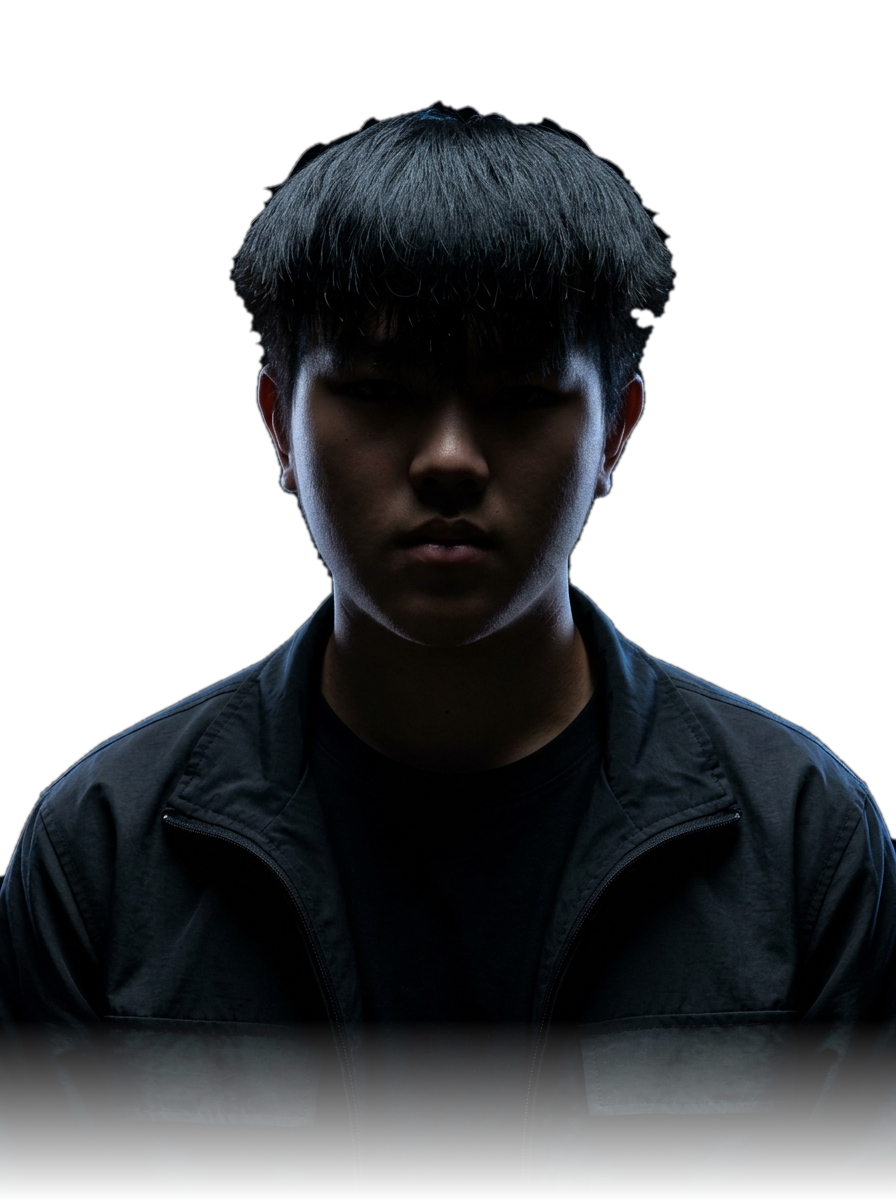
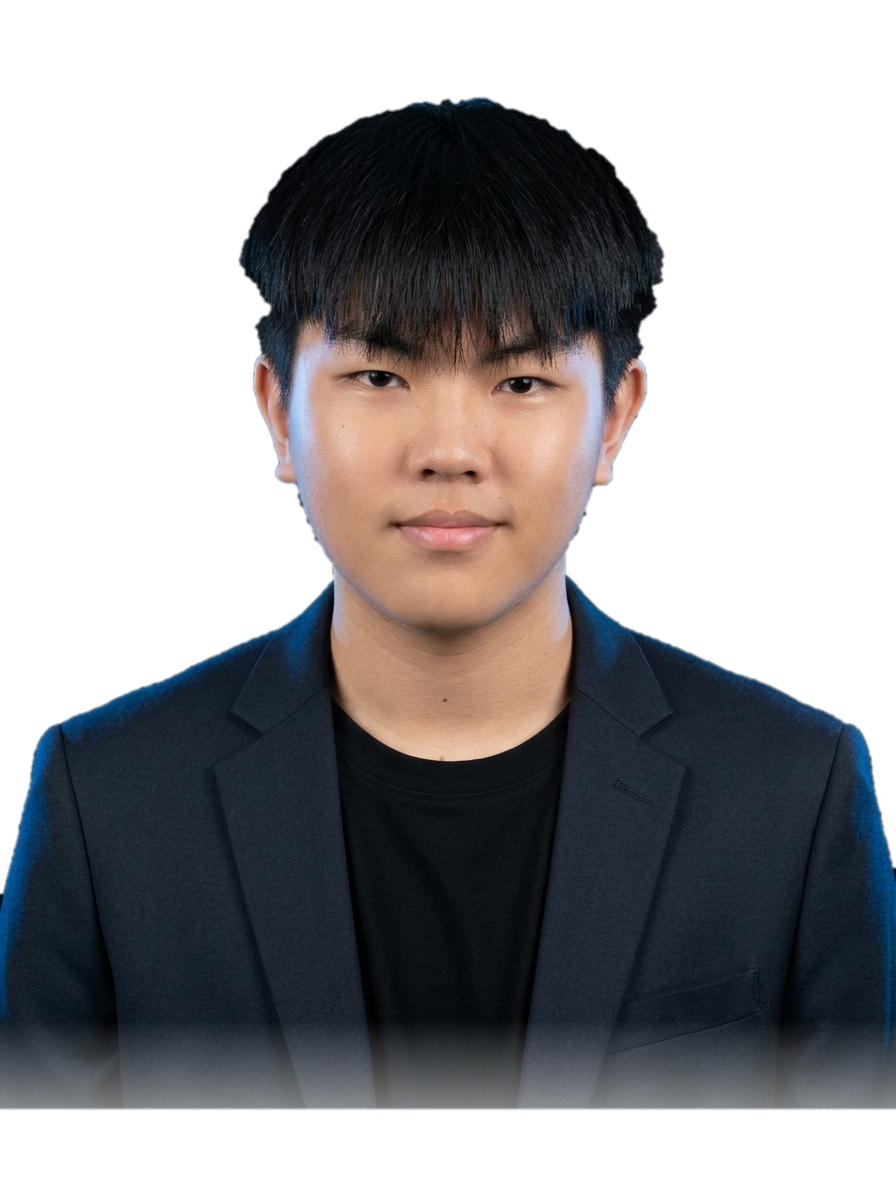
feat: bright natural blazer portrait preserving exact face and verified GitHub facts

diff --git a/index.html b/index.html
@@ -209,29 +209,29 @@
           <div class="md:col-span-2 flex flex-row md:flex-col justify-between md:justify-center gap-4 md:gap-7 z-20">
             
             <!-- Stat 1 -->
-            <a href="#works" class="flex-1 md:flex-none text-left md:text-right group cursor-pointer bg-[#11141c]/60 md:bg-transparent backdrop-blur-sm md:backdrop-blur-none p-4 md:p-0 rounded-xl border border-[#1f242e] md:border-none">
+            <a href="https://github.com/JiaysTM17?tab=repositories" target="_blank" rel="noopener noreferrer" class="flex-1 md:flex-none text-left md:text-right group cursor-pointer bg-[#11141c]/60 md:bg-transparent backdrop-blur-sm md:backdrop-blur-none p-4 md:p-0 rounded-xl border border-[#1f242e] md:border-none">
               <div class="text-4xl sm:text-5xl font-display font-black text-brand-400 group-hover:text-white transition-colors leading-none">
-                08<span class="text-white text-2xl">+</span>
+                10
               </div>
               <div class="text-[11px] text-gray-400 uppercase tracking-widest font-mono mt-1">
-                Dự án thực tế
+                Public Repos
               </div>
             </a>
 
             <!-- Stat 2 -->
-            <a href="#services" class="flex-1 md:flex-none text-left md:text-right group cursor-pointer bg-[#11141c]/60 md:bg-transparent backdrop-blur-sm md:backdrop-blur-none p-4 md:p-0 rounded-xl border border-[#1f242e] md:border-none">
+            <a href="#works" class="flex-1 md:flex-none text-left md:text-right group cursor-pointer bg-[#11141c]/60 md:bg-transparent backdrop-blur-sm md:backdrop-blur-none p-4 md:p-0 rounded-xl border border-[#1f242e] md:border-none">
               <div class="text-4xl sm:text-5xl font-display font-black text-brand-400 group-hover:text-white transition-colors leading-none">
                 06
               </div>
               <div class="text-[11px] text-gray-400 uppercase tracking-widest font-mono mt-1">
-                Khối công nghệ
+                Dự án tiêu biểu
               </div>
             </a>
 
             <!-- Stat 3 -->
             <a href="https://github.com/JiaysTM17/Fullstack-Ecommerce" target="_blank" rel="noopener noreferrer" class="flex-1 md:flex-none text-left md:text-right group cursor-pointer bg-[#11141c]/60 md:bg-transparent backdrop-blur-sm md:backdrop-blur-none p-4 md:p-0 rounded-xl border border-[#1f242e] md:border-none">
               <div class="text-4xl sm:text-5xl font-display font-black text-brand-400 group-hover:text-white transition-colors leading-none">
-                3.1K<span class="text-white text-xl">+</span>
+                3,151
               </div>
               <div class="text-[11px] text-gray-400 uppercase tracking-widest font-mono mt-1">
                 Automated Tests
@@ -302,7 +302,7 @@
 
             <div class="grid grid-cols-2 gap-4 flex-1">
               <a href="https://github.com/JiaysTM17?tab=repositories" target="_blank" rel="noopener noreferrer" class="bg-[#0d0f15] border border-[#1d2230] hover:border-brand-500/50 rounded-xl p-4 flex flex-col justify-center transition-all group">
-                <span class="text-3xl sm:text-4xl font-display font-black text-white group-hover:text-brand-400 transition-colors">10+</span>
+                <span class="text-3xl sm:text-4xl font-display font-black text-white group-hover:text-brand-400 transition-colors">10</span>
                 <span class="text-xs font-mono text-gray-400 mt-1">Public Repositories</span>
               </a>
               <a href="https://github.com/JiaysTM17/UTECoffe" target="_blank" rel="noopener noreferrer" class="bg-[#0d0f15] border border-[#1d2230] hover:border-brand-500/50 rounded-xl p-4 flex flex-col justify-center transition-all group">
@@ -855,7 +855,7 @@
             <div class="space-y-2">
               <div class="flex flex-wrap items-center gap-2.5">
                 <span class="text-[11px] font-mono font-bold text-purple-400 bg-purple-950/60 border border-purple-800/50 px-2.5 py-0.5 rounded-md">SYSTEM DESIGN</span>
-                <span class="text-[11px] font-mono text-gray-400">MERN Stack • Brand Visual Identity</span>
+                <span class="text-[11px] font-mono text-gray-400">TypeScript • Brand Visual Identity • System Design</span>
               </div>
               <h3 class="text-lg sm:text-xl font-bold text-white">
                 NEXORA — Hồ Sơ Thiết Kế Hệ Thống & Ma Trận Đồng Bộ Nghiệp Vụ
@@ -933,18 +933,18 @@
                 <!-- Education Item 1 -->
                 <div class="border-l border-brand-600/40 pl-5 relative space-y-1">
                   <div class="absolute -left-[5px] top-1.5 w-2.5 h-2.5 rounded-full bg-brand-500 ring-4 ring-[#090a0d]"></div>
-                  <span class="text-xs font-mono text-brand-400">2024 — Hiện tại</span>
-                  <h4 class="text-base font-bold text-white">Trường Đại học Sư phạm Kỹ thuật TP.HCM (HCMUTE)</h4>
-                  <p class="text-sm text-gray-400">Sinh viên ngành Khoa học Máy tính / Công nghệ Thông tin</p>
-                  <p class="text-xs text-gray-500 font-mono">Môn học tiêu biểu: Lập trình Web (Spring Boot, JPA, Sitemesh), Cấu trúc dữ liệu & Giải thuật, Cơ sở dữ liệu.</p>
+                  <span class="text-xs font-mono text-brand-400">Hiện tại</span>
+                  <h4 class="text-base font-bold text-white">Sinh viên Khoa học Máy tính — HCMUTE</h4>
+                  <p class="text-sm text-gray-400">Computer Science Student • Aspiring Software Developer</p>
+                  <p class="text-xs text-gray-500 font-mono">Thực hành chuyên sâu: Lập trình Web (Java Spring Boot, JPA, Sitemesh), Fullstack JavaScript, Cơ sở dữ liệu PostgreSQL & MongoDB.</p>
                 </div>
 
                 <!-- Education Item 2 -->
                 <div class="border-l border-gray-800 pl-5 relative space-y-1">
                   <div class="absolute -left-[5px] top-1.5 w-2.5 h-2.5 rounded-full bg-gray-600 ring-4 ring-[#090a0d]"></div>
-                  <span class="text-xs font-mono text-gray-500">Trước 2024</span>
-                  <h4 class="text-base font-bold text-white">Tự học & Nền tảng Tin học</h4>
-                  <p class="text-sm text-gray-400">Xây dựng nền tảng tư duy thuật toán, HTML, CSS, JavaScript và Git workflow.</p>
+                  <span class="text-xs font-mono text-gray-500">Nền tảng cốt lõi</span>
+                  <h4 class="text-base font-bold text-white">Web Development & Git Workflow</h4>
+                  <p class="text-sm text-gray-400">HTML5, CSS3, JavaScript, Git, GitHub và tư duy xây dựng sản phẩm thực tế.</p>
                 </div>
               </div>
             </div>
@@ -1094,7 +1094,7 @@
                     Fullstack E-Commerce & Học phần Lập trình Web
                   </h3>
                   <span class="text-xs font-mono bg-[#1a1e28] text-gray-300 border border-[#2b3345] px-2.5 py-1 rounded-full">
-                    Tháng 11 / 2026
+                    Tháng 09 — 11 / 2026
                   </span>
                 </div>
                 <p class="text-xs text-brand-400 font-mono">MERN Stack, Automated Testing (3.151 Tests), JPA & Sitemesh</p>
@@ -1495,8 +1495,8 @@
 
         <div>
           <h3 class="text-xs font-bold uppercase tracking-wider text-brand-700 font-mono mb-1">Học vấn</h3>
-          <p class="font-bold text-gray-900">Trường Đại học Sư phạm Kỹ thuật TP.HCM (HCMUTE) — 2024 – Hiện tại</p>
-          <p class="text-xs text-gray-600">Chuyên ngành Khoa học Máy tính / Công nghệ Thông tin.</p>
+          <p class="font-bold text-gray-900">Sinh viên Khoa học Máy tính — HCMUTE</p>
+          <p class="text-xs text-gray-600">Computer Science Student • TP. Hồ Chí Minh, Việt Nam.</p>
         </div>
 
         <div>

diff --git a/script.js b/script.js
@@ -89,7 +89,7 @@ document.addEventListener('DOMContentLoaded', () => {
     'nexora': {
       title: 'NEXORA — NEXT-GEN FASHION MARKETPLACE',
       category: 'FASHION MARKETPLACE',
-      tools: 'React.js, Node.js, Express, MongoDB, Tailwind CSS, REST API',
+      tools: 'TypeScript, Brand Visual Identity, System Design',
       img: 'assets/nexora.jpg',
       link: 'https://github.com/JiaysTM17/nexora',
       demo: '',
